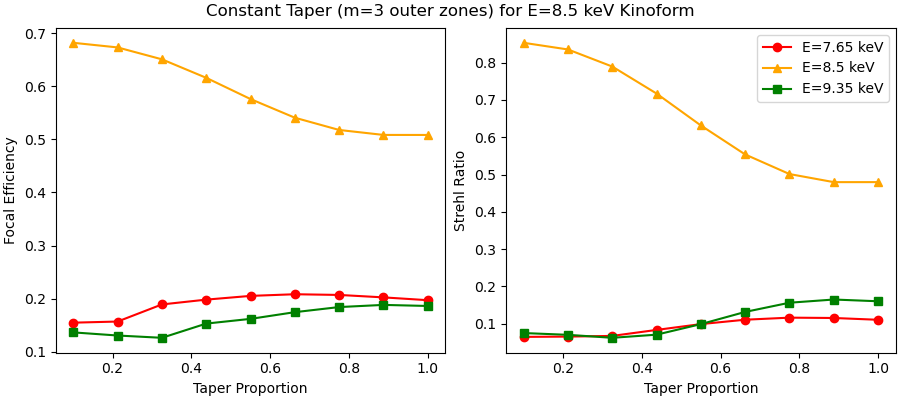
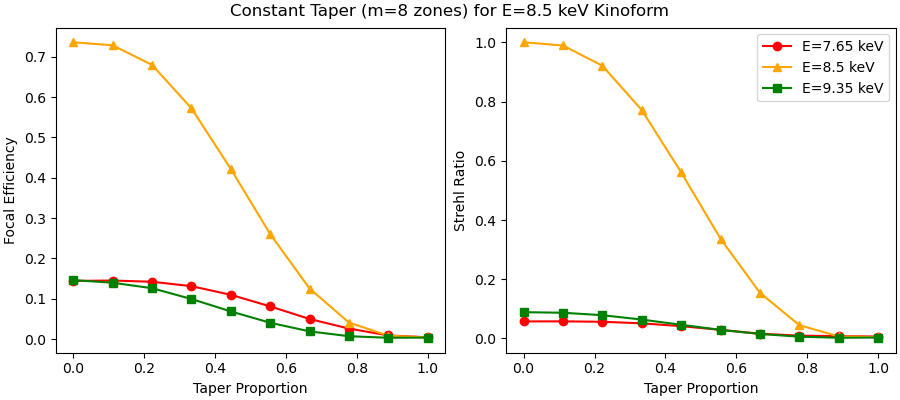
Small plotting changes

diff --git a/optics/metrics/lens_comparison.py b/optics/metrics/lens_comparison.py
@@ -96,8 +96,8 @@ def plot_comparison_1D(results, savepath):
     if n_lenses == 0: raise Exception("No lenses added.")
 
     fig, ax = plt.subplots(
-        nrows=n_lenses, ncols=2,
-        figsize=(8, 3.0 * n_lenses),
+        nrows=n_lenses, ncols=3,
+        figsize=(12, 3.0 * n_lenses),
         squeeze=False,
         constrained_layout=True,
     )
@@ -105,17 +105,15 @@ def plot_comparison_1D(results, savepath):
     cmap_cycle = plt.get_cmap("tab10")
 
     for i, (name, (wave, lens, labels)) in enumerate(results.items()):
-        prof_fig, prof_ax = plt.subplots()
 
-        lens.plot_profile(ax=prof_ax, savedir=savedir, labels=labels)
-        plt.close(prof_fig)
+        lens.plot_profile(ax=ax[i, 0], savedir=savedir, labels=labels)
         
         ## Lens phase plot
-        lens_ax = lens.view(ax=ax[i, 0], color=cmap_cycle(i%10))
+        lens_ax = lens.view(ax=ax[i, 1], color=cmap_cycle(i%10))
         lens_ax.set(title=f"{name} Lens Phase")
 
         ## Wave intensity slice plot
-        wave_ax = wave.view(ax=ax[i, 1], color=cmap_cycle(i%10))
+        wave_ax = wave.view(ax=ax[i, 2], color=cmap_cycle(i%10))
         wave_ax.set(title=f"{name} Focal Intensity")
 
     fig.savefig(savepath)
@@ -133,8 +131,8 @@ def plot_comparison_2D(results, savepath):
     if n_lenses == 0: raise Exception("No lenses added.")
 
     fig, ax = plt.subplots(
-        nrows=n_lenses, ncols=3,
-        figsize=(17, 5.0 * n_lenses),
+        nrows=n_lenses, ncols=4,
+        figsize=(24, 5.0 * n_lenses),
         squeeze=False,
         constrained_layout=True,
     )
@@ -142,18 +140,17 @@ def plot_comparison_2D(results, savepath):
     cmap_cycle = plt.get_cmap("tab10")
 
     for i, (name, (wave, lens, labels)) in enumerate(results.items()):
-        prof_fig, prof_ax = plt.subplots()
+        # prof_fig, prof_ax = plt.subplots()
         
-        lens.plot_profile(ax=prof_ax, savedir=savedir, labels=labels)
-        plt.close(prof_fig)
+        lens.plot_profile(ax=ax[i, 0], labels=labels)
         
         ## Lens phase plot
-        lens_ax = lens.view(ax=ax[i, 0], cmap="twilight", labels=labels, show_cbar=True)
+        lens_ax = lens.view(ax=ax[i, 1], cmap="twilight", labels=labels, show_cbar=True)
         lens_ax.set(title=f"{name} Lens Phase")
         
         ## Wave intensity/phase plot
-        wave_ax = wave.view(ax=ax[i, 1], cmap="inferno", xlim=(-lens.R/2, lens.R/2), ylim=(-lens.R/2, lens.R/2), 
-                            labels=labels, extend=False, show_cbar=True)
+        wave_ax = wave.view(ax=ax[i, 2], cmap="inferno", xlim=(-lens.R/2, lens.R/2), ylim=(-lens.R/2, lens.R/2), 
+                            labels=labels, extend=True, show_cbar=True)
         wave_ax.set(title=f"{name} Focal Intensity")
 
         ## Wave intensity slice plot
@@ -165,9 +162,9 @@ def plot_comparison_2D(results, savepath):
         Nx = I.shape[1]
         x = np.linspace(-Lx/2, Lx/2, Nx)
         cy = I.shape[0] // 2
-        ax[i, 2].plot(x*x_scale_factor, I[cy, :], color=cmap_cycle(i % 10))
-        ax[i, 2].set(xlim=(-lens.R/2*x_scale_factor, lens.R/2*x_scale_factor))
-        ax[i, 2].set(title=f"{name} Central Cut", xlabel=xlabel, ylabel="Intensity", yscale="log")
+        ax[i, 3].plot(x*x_scale_factor, I[cy, :], color=cmap_cycle(i % 10))
+        ax[i, 3].set(xlim=(-lens.R/2*x_scale_factor, lens.R/2*x_scale_factor))
+        ax[i, 3].set(title=f"{name} Central Cut", xlabel=xlabel, ylabel="Intensity", yscale="log")
 
     fig.savefig(savepath)
     plt.close(fig)

diff --git a/optics/metrics/error_metrics.py b/optics/metrics/error_metrics.py
@@ -205,7 +205,7 @@ def plot_sweep(err, vals, labels, savepath):
     print(f"Saved sweep figure to {savepath}.")
 
 def main():
-    Lx, Lz, N = 1.5e-4, 10000, 2048
+    Lx, Lz, N = 1.5e-4, 10000, 1024
     # SIM = {"Lx": Lx, "Ly": Lx, "Nx": N, "Ny": N, "Lz": Lz}
     E, f, R = 8.5e3, 1.0, 5e-5
     dim = 2
@@ -292,8 +292,9 @@ def main():
     ### Constant Taper
     match input("Analyze constant taper? (y/n): "):
         case "y": 
-            err_values = np.linspace(0.1, 1.0, 9)
-            m = 3
+            err_values = np.linspace(0, 1.0, 10)
+            m = ref_lens.zones
+            
             labels = {
                     "xlabel": [r"Taper Proportion"] * n_metrics,
                     "ylabel": ["Focal Efficiency", "Strehl Ratio"],
@@ -302,7 +303,7 @@ def main():
                     "x_scale_factor":  1.0,                 # m -> um
                     "y_scale_factor": [1.0, 1.0],     # FWHM m -> um
                     "label": [f"E={E_i/1000} keV" for E_i in E_range],
-                    "title": f"Constant Taper (m={m} outer zones) for E={E/1000} keV Kinoform",
+                    "title": f"Constant Taper (m={m} zones) for E={E/1000} keV Kinoform",
                     "marker": ["o", "^", "s", "d", "x"],
                     "color": ["red", "orange", "green", "blue", "purple"]
                 }
@@ -312,7 +313,7 @@ def main():
                 LensErrors.kinoform_taper, "proportion", err_values,
                 E_range=E_range,
                 labels=labels,
-                error_kwargs={"m": -m, "extend": True, "remove_last": True},
+                error_kwargs={"m": -m, "extend": True, "remove_last": False},
                 savepath=out,
             )
         case _:
